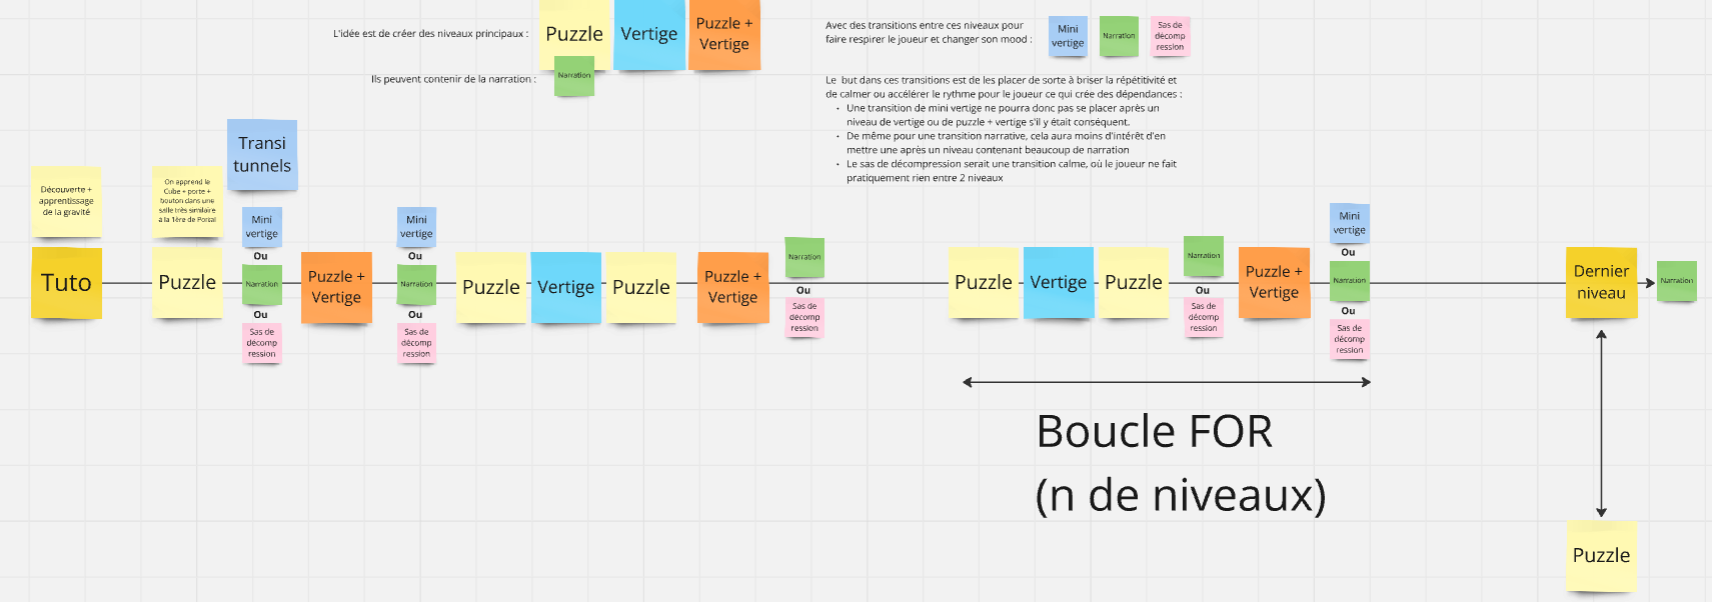
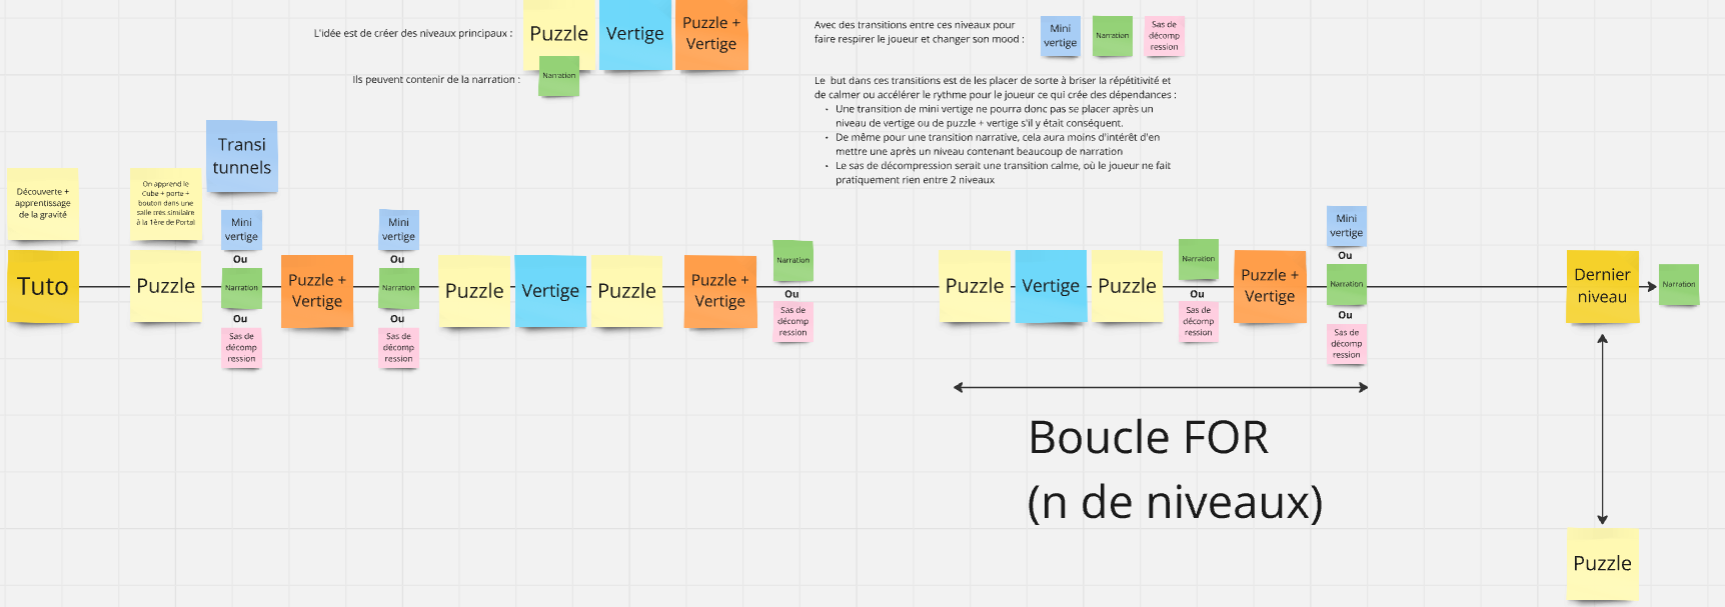
minia timeline

diff --git a/projet/qbt.html b/projet/qbt.html
@@ -197,7 +197,7 @@
     
       <div class="image">
         <div class="ligne">
-          <a href="../img/QBT/timeline.png"><img class="miniminia projectpage" src="../img/QBT/timeline.png"></a>
+          <a href="../img/QBT/timeline.png"><img class="miniminia projectpage" src="../img/QBT/timeline minia.png"></a>
           <a href="../img/QBT/sliiding qbt minia.png"><img class="miniminia projectpage" src="../img/QBT/sliiding qbt minia.png"></a>
           <a href="../img/QBT/QBT - Plan.png"><img class="miniminia projectpage" src="../img/QBT/QBT - Plan.png"></a>
         </div>
